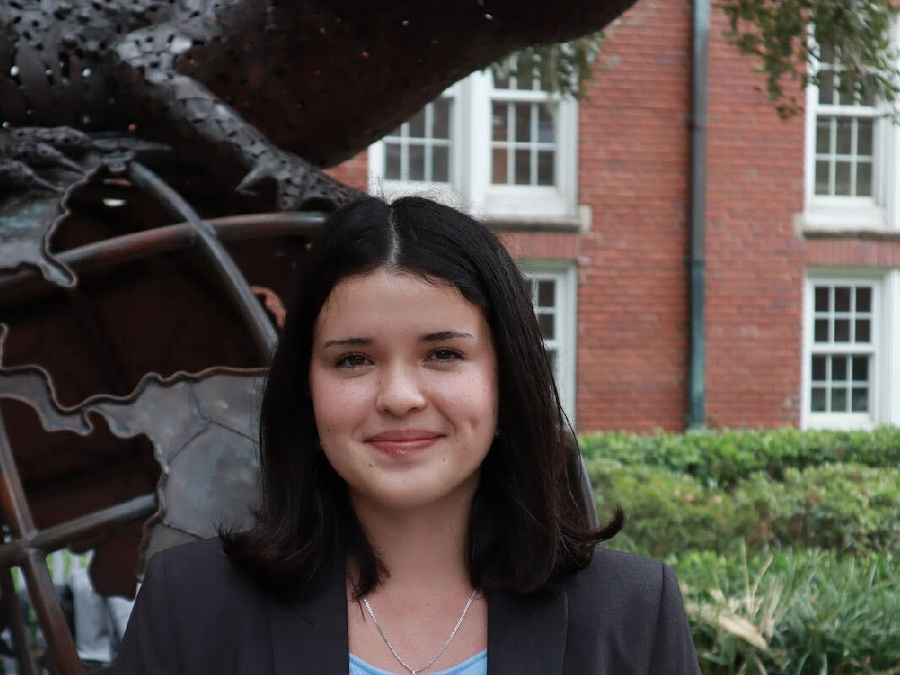
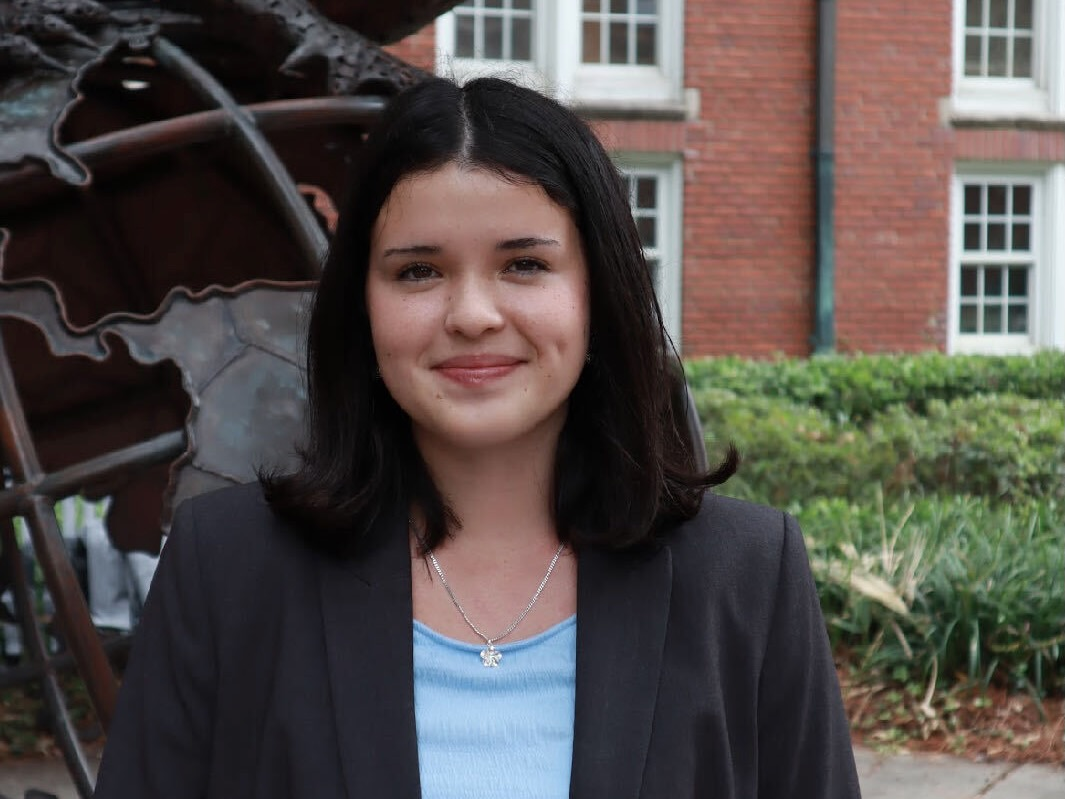
Add files via upload

diff --git a/people.css b/people.css
@@ -179,10 +179,8 @@
   .past-members > p { margin-top: 14px; }
 }
 
-
-/* Sarayu — use the newly supplied photo, no custom crop or zoom */
-.current-row img[src$="sarayu-vanga-new.jpg"] {
-  object-fit: contain !important;
+/* User-prepared 4:3 crops: display directly, with no per-person zoom or repositioning. */
+.current-row img:not(.pi-row img),
+.alumni-card img {
   object-position: center center !important;
-  background: #eef7fd;
 }
